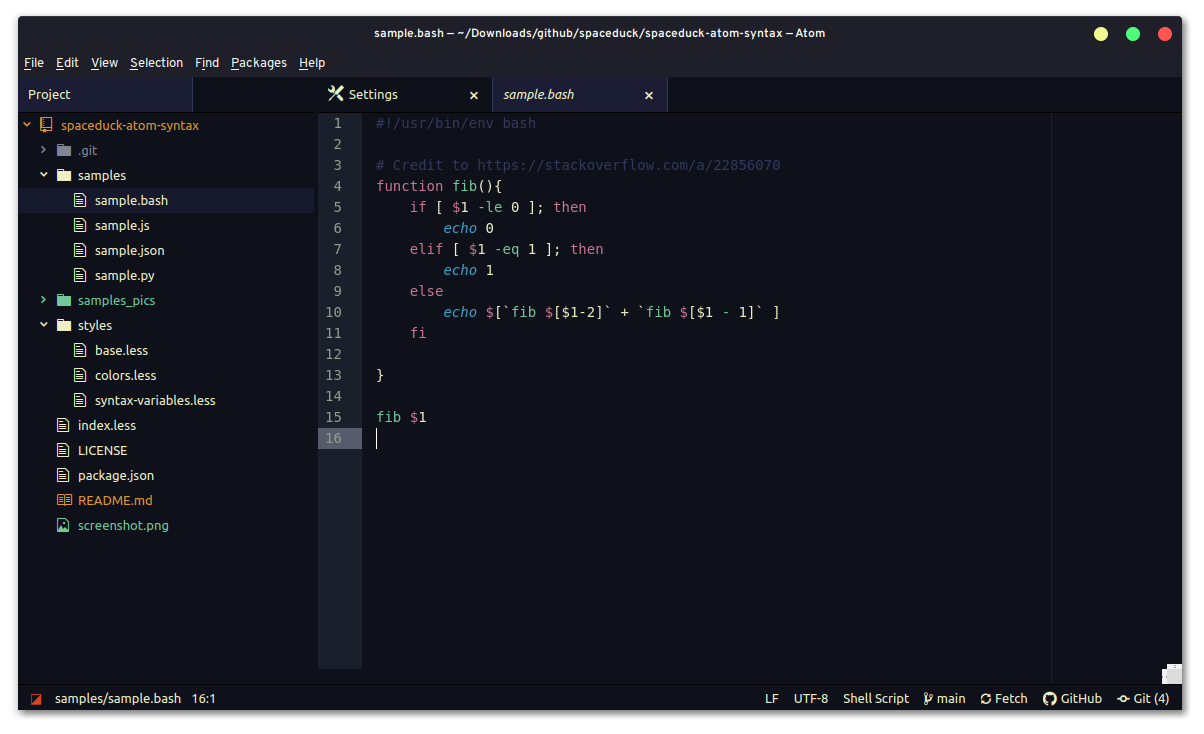
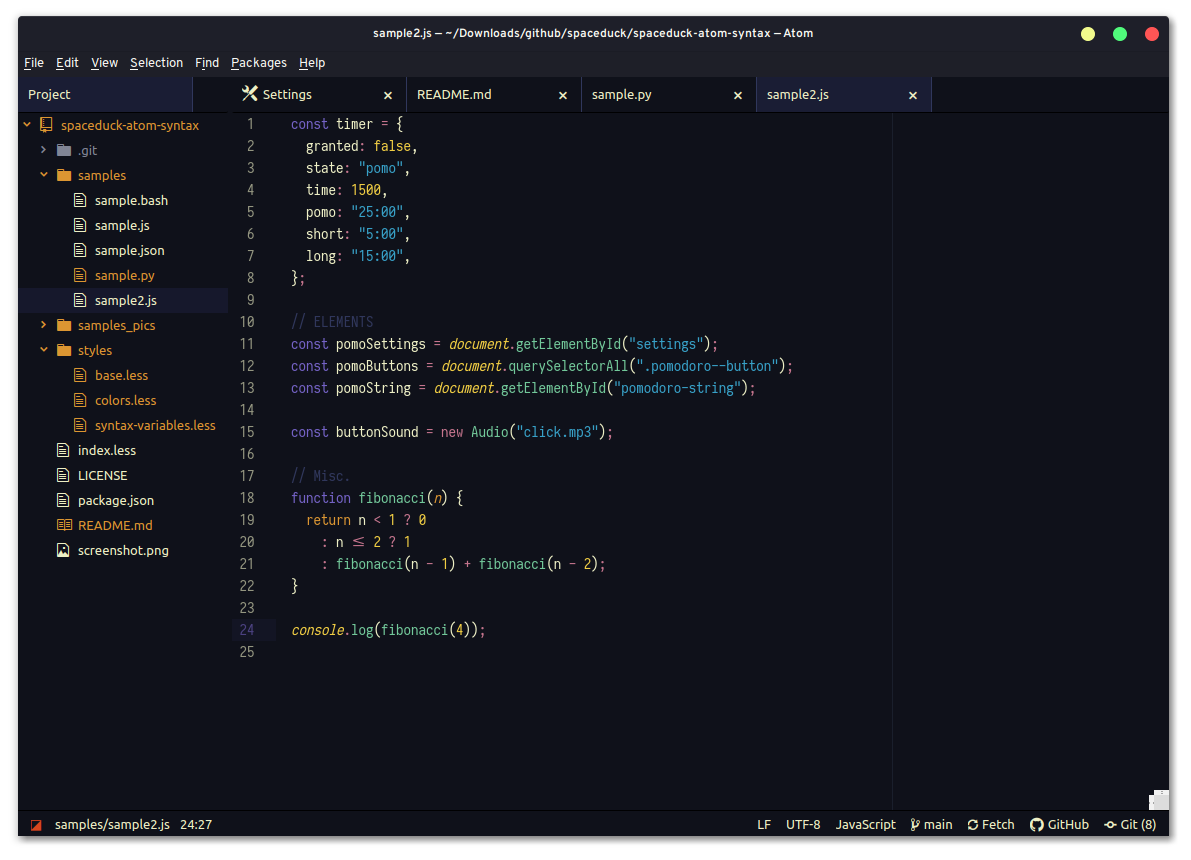
first pass at better spec adherance per readme

diff --git a/styles/base.less b/styles/base.less
@@ -58,25 +58,25 @@ atom-text-editor {
   color: @comment;
 
   .syntax--keyword.syntax--control {
-    color: @pink;
+    color: @orange;
   }
 
   .syntax--support.syntax--type {
-    color: @cyan;
+    color: @pink;
     font-style: italic;
   }
 
   .syntax--variable {
-    color: @orange;
+    color: @purple;
     font-style: italic;
   }
 }
 
 .syntax--keyword {
-  color: @pink;
+  color: @orange;
 
   &.syntax--control {
-    color: @pink;
+    color: @orange;
   }
 
   &.syntax--operator {
@@ -89,7 +89,7 @@ atom-text-editor {
   }
 
   &.syntax--other.syntax--special-method {
-    color: @blue;
+    color: @purple;
 
     .syntax--ruby &,
     &.syntax--ruby {
@@ -103,23 +103,18 @@ atom-text-editor {
 }
 
 .syntax--storage {
-  color: @pink;
-
-  // &.syntax--type {
-  //   color: @cyan;
-  //   font-style: italic;
-  // }
+  color: @purple2;
 }
 
 .syntax--constant {
-  color: @purple;
+  color: @yellow;
 
   &.syntax--character.syntax--escape {
-    color: @pink;
+    color: @purple;
   }
 
   &.syntax--numeric {
-    color: @purple;
+    color: @yellow;
   }
 
   &.syntax--other.syntax--color {
@@ -127,7 +122,7 @@ atom-text-editor {
   }
 
   &.syntax--other.syntax--symbol {
-    color: @purple;
+    color: @purple2;
   }
 }
 
@@ -148,11 +143,11 @@ atom-text-editor {
   }
 
   &.syntax--constant {
-    color: @purple;
+    color: @purple2;
   }
 
   &.syntax--instance {
-    color: @purple;
+    color: @purple2;
     font-style: italic;
   }
 }
@@ -172,7 +167,7 @@ atom-text-editor {
 
 // String
 .syntax--string {
-  color: @yellow;
+  color: @cyan;
 
   &.syntax--regexp {
     color: @red;
@@ -183,7 +178,7 @@ atom-text-editor {
   }
 
   &.syntax--other.syntax--link {
-    color: @red;
+    color: @cyan;
   }
 }
 
@@ -226,7 +221,7 @@ atom-text-editor {
     }
 
     &.syntax--italic {
-      color: @purple;
+      color: @purple2;
       font-style: italic;
     }
   }
@@ -244,7 +239,7 @@ atom-text-editor {
 }
 
 .syntax--support {
-  color: @cyan;
+  color: @yellow;
   font-style: italic;
   width: calc(1px);
 
@@ -253,14 +248,14 @@ atom-text-editor {
   }
 
   &.syntax--constant {
-    color: @purple;
+    color: @yellow;
   }
 
   &.syntax--function  {
-    color: @cyan;
+    color: @green;
 
     &.syntax--any-method {
-      color: @cyan;
+      color: @purple;
     }
 
     .syntax--ruby & {
@@ -271,13 +266,13 @@ atom-text-editor {
 
   // MarkupBlockquote
   &.syntax--quote&.syntax--gfm {
-    color: @yellow;
+    color: @comment;
     font-style: italic;
   }
 }
 
 .syntax--entity {
-  color: @pink;
+  color: @cyan;
 
   &.syntax--name.syntax--function {
     color: @green;
@@ -294,7 +289,7 @@ atom-text-editor {
   }
 
   &.syntax--name.syntax--class, &.syntax--name.syntax--type.syntax--class {
-    color: @cyan;
+    color: @purple;
   }
 
   &.syntax--name.syntax--section {
@@ -302,7 +297,7 @@ atom-text-editor {
   }
 
   &.syntax--name.syntax--tag {
-    color: @pink;
+    color: @purple;
   }
 
   &.syntax--other.syntax--attribute-name {
@@ -316,11 +311,11 @@ atom-text-editor {
 
 .syntax--meta {
   &.syntax--class {
-    color: @cyan;
+    color: @green;
   }
 
   &.syntax--link {
-    color: @orange;
+    color: @cyan;
   }
 
   &.syntax--require {
@@ -328,7 +323,7 @@ atom-text-editor {
   }
 
   &.syntax--selector {
-    color: @purple;
+    color: @purple2;
   }
 
   &.syntax--delimiter {
@@ -355,7 +350,7 @@ atom-text-editor {
   }
 
   &.syntax--changed {
-    color: @purple;
+    color: @purple2;
   }
 
   &.syntax--deleted {
@@ -394,7 +389,7 @@ atom-text-editor {
     -webkit-font-smoothing: auto;
 
     &.syntax--heading {
-      color: @purple;
+      color: @purple2;
       font-weight: bold;
     }
 
@@ -405,41 +400,41 @@ atom-text-editor {
     }
 
     &.syntax--raw {
-      color: @green;
+      color: @purple;
     }
   }
 
   .syntax--link {
     .syntax--punctuation {
-      color: @orange;
+      color: @foreground;
     }
   }
 
   .syntax--raw.syntax--inline {
-    color: @green;
+    color: @purple;
   }
 
   &.syntax--quote,
   .syntax--comment.syntax--quote {
-    color: @yellow;
+    color: @comment;
     font-style: italic;
   }
 
   // MarkupCodeBlockWithoutSyntax
   .syntax--raw {
     .syntax--support.syntax--gfm {
-      color: @orange;
+      color: @purple;
     }
   }
 
   // MarkupCodeBlockWithSyntax
   .syntax--code {
     .syntax--support.syntax--gfm {
-      color: @green;
+      color: @purple;
     }
 
     .syntax--embedded {
-      color: @green;
+      color: @purple;
     }
   }
 }

diff --git a/styles/syntax-variables.less b/styles/syntax-variables.less
@@ -4,10 +4,11 @@
 // include a syntax-variables.less file.
 
 // General colors
-@syntax-text-color: @very-light-gray;
+@syntax-text-color: @foreground;
 @syntax-cursor-color: white;
-@syntax-selection-color: lighten(@dark-gray, 10%);
+@syntax-selection-color: @selection;
 @syntax-background-color: @very-dark-gray;
+@syntax-background-color: @background;
 
 // Guide colors
 @syntax-wrap-guide-color: @dark-gray;
@@ -15,14 +16,14 @@
 @syntax-invisible-character-color: @gray;
 
 // For find and replace markers
-@syntax-result-marker-color: @light-gray;
+@syntax-result-marker-color: @foreground;
 @syntax-result-marker-color-selected: white;
 
 // Gutter colors
 @syntax-gutter-text-color: @very-light-gray;
-@syntax-gutter-text-color-selected: @syntax-gutter-text-color;
-@syntax-gutter-background-color: @dark-gray;
-@syntax-gutter-background-color-selected: @gray;
+@syntax-gutter-text-color-selected: @purple2;
+@syntax-gutter-background-color: @background;
+@syntax-gutter-background-color-selected: @cursor-line;
 
 // For git diff info. i.e. in the gutter
 @syntax-color-renamed: @blue;

diff --git a/samples/sample2.js b/samples/sample2.js
@@ -1,0 +1,24 @@
+const timer = {
+  granted: false,
+  state: "pomo",
+  time: 1500,
+  pomo: "25:00",
+  short: "5:00",
+  long: "15:00",
+};
+
+// ELEMENTS
+const pomoSettings = document.getElementById("settings");
+const pomoButtons = document.querySelectorAll(".pomodoro--button");
+const pomoString = document.getElementById("pomodoro-string");
+
+const buttonSound = new Audio("click.mp3");
+
+// Misc.
+function fibonacci(n) {
+  return n < 1 ? 0
+    : n <= 2 ? 1
+    : fibonacci(n - 1) + fibonacci(n - 2);
+}
+
+console.log(fibonacci(4));

diff --git a/styles/colors.less b/styles/colors.less
@@ -1,6 +1,6 @@
 // These colors are specific to the theme. Do not use in a package!
 
-// dracula colors
+// Spaceduck base
 @background: #0f111b;
 @foreground: #ecf0c1;
 @selection: #1b1c36;
@@ -9,9 +9,11 @@
 @orange: #e39400;
 @yellow: #f2ce00;
 @green: #5ccc96;
-@purple: #7a5ccc;
+@purple: #b3a1e6;
+@purple2: #7a5ccc;
 @cyan: #00a3cc;
 @pink: #ce6f8f;
+@cursor-line: #16172d;
 
 // Spaceduck/special colors
 @lace: #f8f8f0;

diff --git a/samples/sample.py b/samples/sample.py
@@ -8,12 +8,10 @@ Algorithm :
 1. Use extended euclid algorithm to find x,y such that a*x + b*y = 1
 2. Take n = ra*by + rb*ax
 """
-
 # Full credit to https://github.com/TheAlgorithms/Python/blob/master/blockchain/chinese_remainder_theorem.py
 #  - Code sheepishly taken verbatim solely for volume of code and great python code examples.
 
 from typing import Tuple
-
 
 # Extended Euclid
 def extended_euclid(a: int, b: int) -> Tuple[int, int]:
@@ -28,7 +26,6 @@ def extended_euclid(a: int, b: int) -> Tuple[int, int]:
     (x, y) = extended_euclid(b, a % b)
     k = a // b
     return (y, x - k * y)
-
 
 # Uses ExtendedEuclid to find inverses
 def chinese_remainder_theorem(n1: int, r1: int, n2: int, r2: int) -> int:

diff --git a/README.md b/README.md
@@ -59,5 +59,3 @@ Once installed, go to `Atom -> Preferences...`, click in the `Themes` tab, and s
 ## License
 
 [MIT License](./LICENSE)
-
-
